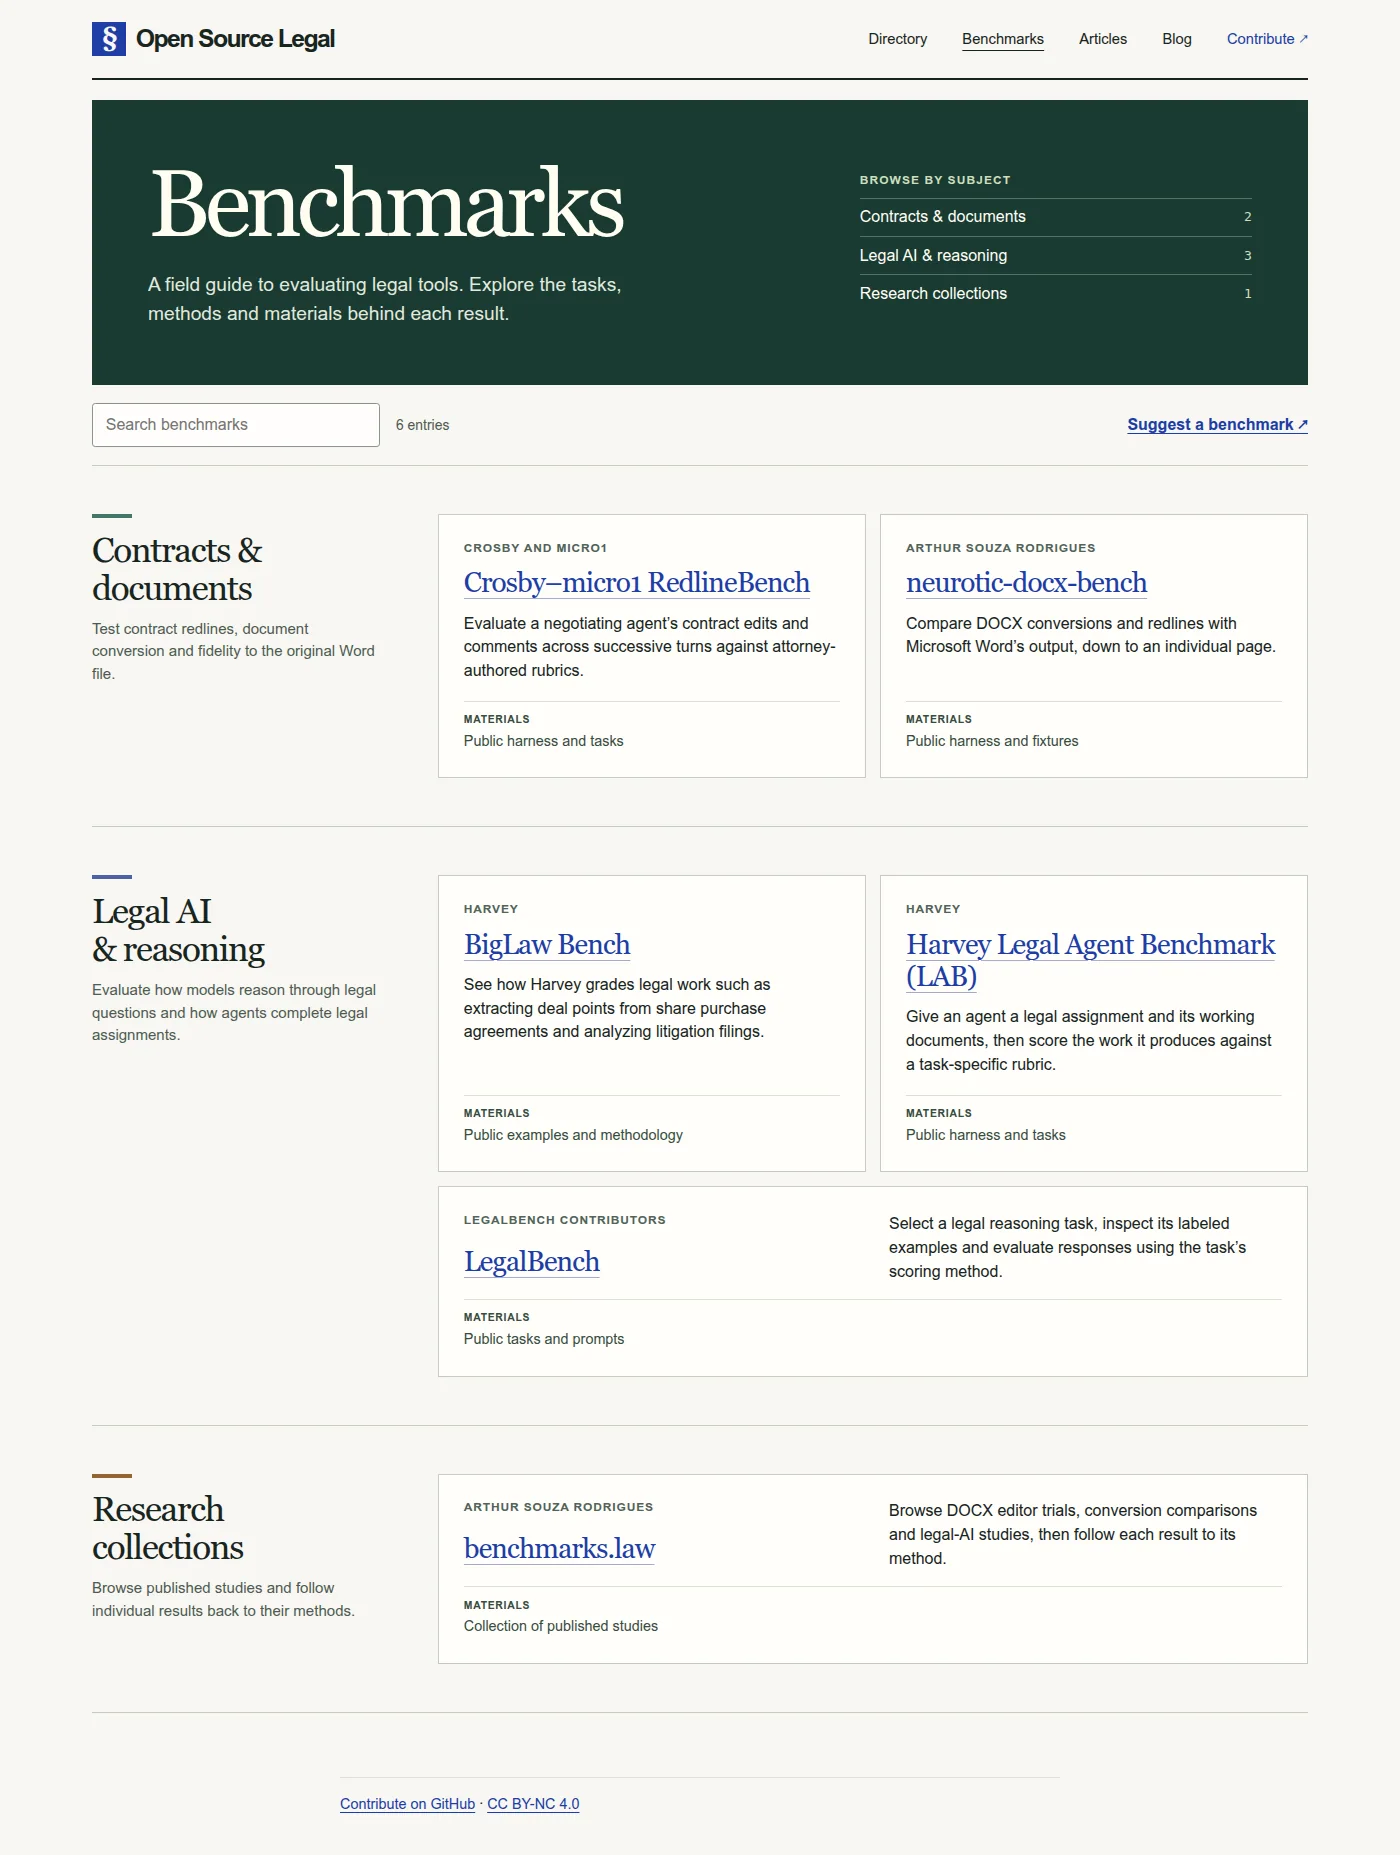
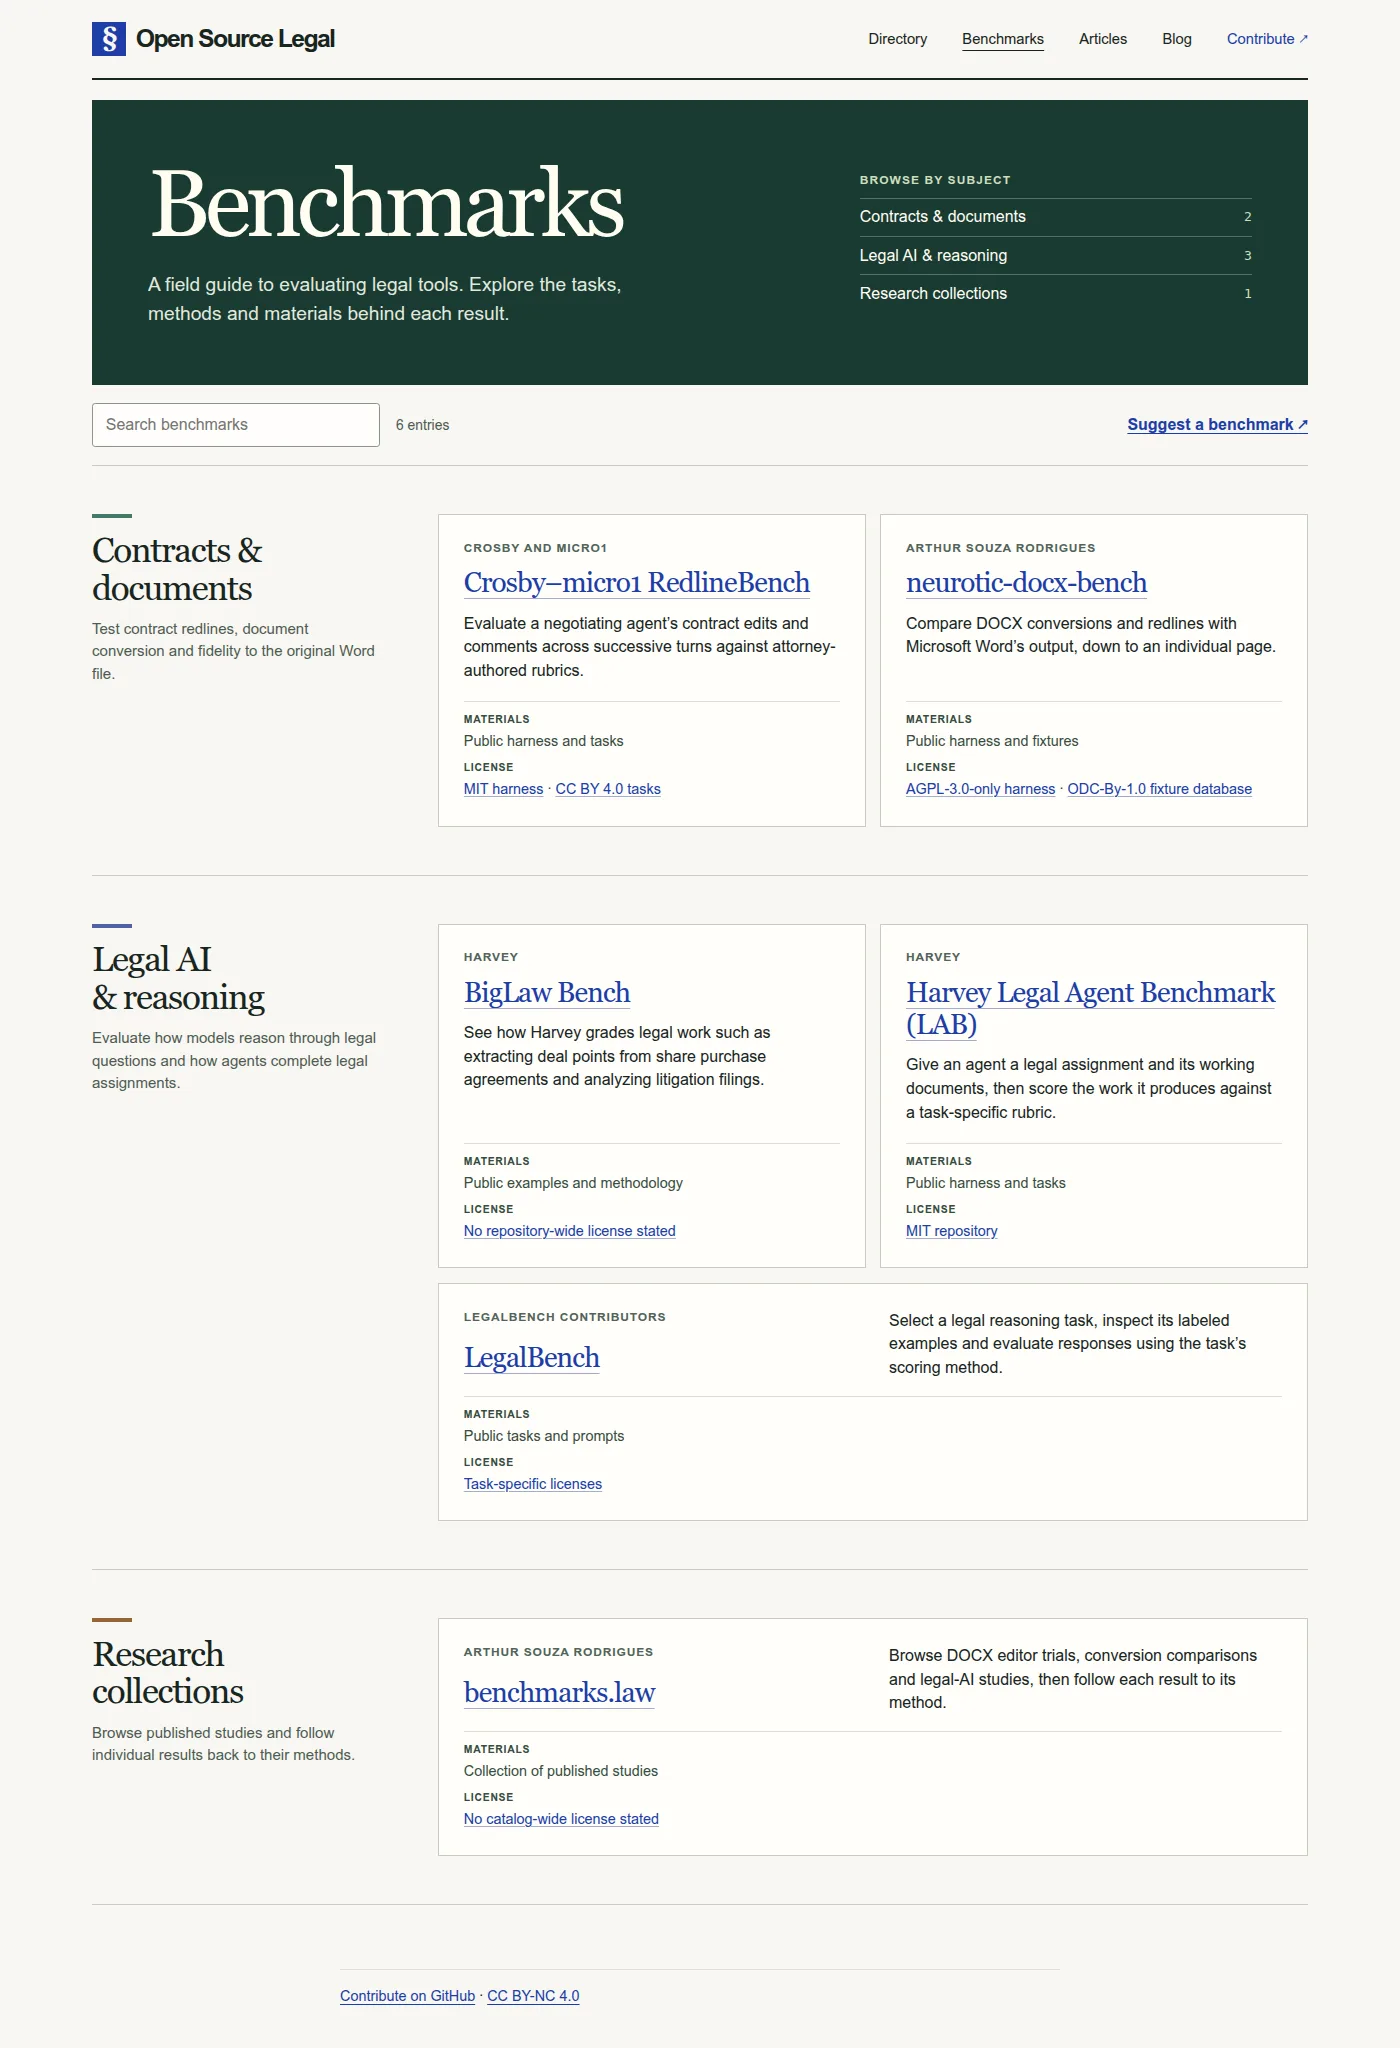
Index benchmark write-ups and document upstream license terms (#23)

diff --git a/templates/articles.css b/templates/articles.css
@@ -32,19 +32,19 @@ main:has(.bench-index), .reader main:has(.bench-index) {
   width: min(76rem, calc(100% - clamp(2.5rem, 9vw, 8rem)));
   padding-block: 1.25rem 4rem;
 }
-.bench-index { --forest: #193a32; --line: #c5ccc3; --action: #203da6; }
+.bench-index { --line: var(--rule, #c5ccc3); --action: var(--blue, #203da6); }
 .bench-index [hidden] { display: none; }
 .bench-mast {
   display: grid; grid-template-columns: minmax(0, 1.6fr) minmax(16rem, 1fr);
   align-items: center; gap: clamp(2rem, 6vw, 6rem);
-  padding: clamp(1.6rem, 4vw, 3.5rem); color: #fffdf0; background: var(--forest);
+  padding: var(--mast-inset, clamp(1.6rem, 4vw, 3.5rem)); color: var(--cream, #fffdf0); background: var(--forest, #193a32);
 }
 .bench-index .bench-mast h1 {
-  margin: 0; font: 400 clamp(3rem, 6.8vw, 6.3rem)/1 Georgia, serif;
+  margin: 0; font: var(--mast-title, 400 clamp(3rem, 6.8vw, 6.3rem)/1 Georgia, serif);
   letter-spacing: -.055em; color: inherit;
 }
-.bench-mast p { max-width: 34rem; margin: 1.25rem 0 0; color: #e1e9dd; font-size: clamp(1rem, 1.4vw, 1.2rem); line-height: 1.5; }
-.bench-publisher, .bench-access span {
+.bench-mast p { max-width: 34rem; margin: 1.25rem 0 0; color: var(--mast-copy, #e1e9dd); font-size: clamp(1rem, 1.4vw, 1.2rem); line-height: 1.5; }
+.bench-publisher, :is(.bench-access, .bench-license) span {
   font: 650 .75rem/1.4 Arial, sans-serif; letter-spacing: .07em; text-transform: uppercase;
 }
 .bench-index .bench-contents h2 { margin: 0 0 .55rem; color: #cbdebd; font: 650 .75rem/1.4 Arial, sans-serif; letter-spacing: .09em; text-transform: uppercase; }
@@ -76,9 +76,9 @@ main:has(.bench-index), .reader main:has(.bench-index) {
 .bench-index .bench-card a:hover { text-decoration-color: currentColor; }
 .bench-summary { flex: 1; margin: .8rem 0 1.15rem; line-height: 1.48; }
 .bench-access { border-top: 1px solid #dbe0d6; padding-top: .7rem; margin: 0; color: #374c40; font-size: .9rem; }
-.bench-access span { display: block; font-size: .65rem; margin-bottom: .2rem; }
+:is(.bench-access, .bench-license) span { display: block; font-size: .65rem; margin-bottom: .2rem; }
 .bench-empty { padding-block: 2.5rem; }
-.bench-empty button { cursor: pointer; background: var(--forest); color: white; border: 0; padding: .6rem 1rem; }
+.bench-empty button { cursor: pointer; background: var(--forest, #193a32); color: white; border: 0; padding: .6rem 1rem; }
 @media (max-width: 55rem) {
   .bench-group { grid-template-columns: 1fr; gap: 1.15rem; }
   .bench-mast { gap: 1.8rem; grid-template-columns: minmax(0, 1.4fr) minmax(13rem, 1fr); }
@@ -101,3 +101,7 @@ main:has(.bench-index), .reader main:has(.bench-index) {
   .bench-card:where(:last-child:nth-child(odd)) .bench-summary { grid-column: 2; grid-row: 1 / 3; margin: 0; }
   .bench-card:where(:last-child:nth-child(odd)) .bench-access { grid-column: 1 / -1; margin-top: 1rem; }
 }
+
+.bench-license { margin: .55rem 0 0; color: #374c40; font-size: .9rem; }
+.bench-license a { text-underline-offset: .15em; }
+.bench-card .bench-license { grid-column: 1 / -1; }

diff --git a/CONTRIBUTING.md b/CONTRIBUTING.md
@@ -8,9 +8,20 @@ Use the blog for project updates, field notes and commentary. Create a file such
 
 ## Add a benchmark
 
-Add one Markdown file to `content/benchmarks/`. Use the article front matter shown below and add two fields: `publisher` (who maintains the benchmark) and `access` (what a reader can obtain, such as “Public harness and tasks” or “Published studies”). Use `date` for the day you checked the sources and `author` for the person or group writing the entry.
+Add one Markdown file to `content/benchmarks/`. Use the article front matter shown below and add `publisher` (who maintains the benchmark) and `access` (what a reader can obtain, such as “Public harness and tasks” or “Published studies”). Use `date` for the day you checked the sources and `author` for the person or group writing the entry.
 
 Set `subject` to `contracts-documents`, `legal-reasoning` or `research-collections` to place your entry in that section. Entries without a subject appear under “Other benchmarks”.
+
+Supply a project `homepage`, an optional `github_url`, and a `licenses` list. Each license needs an identifier, a short label naming the material it covers, and a link to the publisher’s terms. For example:
+
+```yaml
+licenses:
+  - id: MIT
+    label: MIT harness
+    url: https://github.com/crosbylegal/redline-bench/blob/main/LICENSE
+```
+
+List code and dataset terms separately when they differ. Use `NOASSERTION` with a scoped explanation when the publisher gives no overall license. The same Markdown file publishes the write-up and one searchable project directory entry. When adding a write-up for an existing directory project, move its source links into the Markdown and remove its old JSON row.
 
 Describe the task, how outputs are judged and a limitation that matters when interpreting the result. Link directly to the publisher’s method, data, harness or results. For a collection of studies, say so and identify any separately listed benchmark it hosts. Your filename becomes `/benchmarks/<filename-without-.md>`. A reviewed merge adds the entry to benchmark search and the sitemap. The editorial text follows the same CLA and CC BY-NC 4.0 terms as an article. [Propose a benchmark](https://github.com/Open-Source-Legal/opensource.legal-content/new/main/content/benchmarks)
 

diff --git a/content/benchmarks/neurotic-docx-bench.md b/content/benchmarks/neurotic-docx-bench.md
@@ -3,6 +3,15 @@ title: neurotic-docx-bench
 subject: contracts-documents
 publisher: Arthur Souza Rodrigues
 access: Public harness and fixtures
+homepage: https://benchmarks.law/neurotic-docx-bench/
+github_url: https://github.com/jandira-tech/neurotic_docx_bench
+licenses:
+  - id: AGPL-3.0-only
+    label: AGPL-3.0-only harness
+    url: https://github.com/jandira-tech/neurotic_docx_bench#license
+  - id: ODC-By-1.0
+    label: ODC-By-1.0 fixture database
+    url: https://huggingface.co/datasets/arthrod/neurotic_docx_bench-fixtures
 summary: Compare DOCX conversions and redlines with Microsoft Word’s output, down to an individual page.
 date: 2026-11-25
 author: Open Source Legal
@@ -12,4 +21,4 @@ A converter can preserve all the words in a contract and still push its signatur
 
 ## Reproducing a Word comparison
 
-The harness and versioned fixture manifests are public. Reproducing a Word-rendered reference requires Word. Visual similarity measures fidelity to that reference and does not establish whether a lawyer would accept an edit. The maintainer also develops Jubarte, one of the engines evaluated. [Harness and limitations](https://github.com/jandira-tech/neurotic_docx_bench) · [Fixture collection](https://huggingface.co/datasets/arthrod/neurotic_docx_bench-fixtures)
+The harness uses AGPL-3.0-only. The fixture database uses ODC-By-1.0, and individual DOCX files may carry separate rights. The fixture collection links its attribution notices. Reproducing a Word-rendered reference requires Word. Visual similarity measures fidelity to that reference and does not establish whether a lawyer would accept an edit. The maintainer also develops Jubarte, one of the engines evaluated. [Harness and limitations](https://github.com/jandira-tech/neurotic_docx_bench) · [Fixture collection](https://huggingface.co/datasets/arthrod/neurotic_docx_bench-fixtures)

diff --git a/content/benchmarks/crosby-micro1-redlinebench.md b/content/benchmarks/crosby-micro1-redlinebench.md
@@ -3,6 +3,15 @@ title: Crosby–micro1 RedlineBench
 subject: contracts-documents
 publisher: Crosby and micro1
 access: Public harness and tasks
+homepage: https://huggingface.co/datasets/crosbylegal/RedlineBench
+github_url: https://github.com/crosbylegal/redline-bench
+licenses:
+  - id: MIT
+    label: MIT harness
+    url: https://github.com/crosbylegal/redline-bench/blob/main/LICENSE
+  - id: CC-BY-4.0
+    label: CC BY 4.0 tasks
+    url: https://huggingface.co/datasets/crosbylegal/RedlineBench
 summary: Evaluate a negotiating agent’s contract edits and comments across successive turns against attorney-authored rubrics.
 date: 2026-11-25
 author: Open Source Legal

diff --git a/content/benchmarks/legalbench.md b/content/benchmarks/legalbench.md
@@ -3,6 +3,12 @@ title: LegalBench
 subject: legal-reasoning
 publisher: LegalBench contributors
 access: Public tasks and prompts
+homepage: https://hazyresearch.stanford.edu/legalbench/
+github_url: https://github.com/HazyResearch/legalbench
+licenses:
+  - id: LicenseRef-TaskSpecific
+    label: Task-specific licenses
+    url: https://github.com/HazyResearch/legalbench#licenses
 summary: Select a legal reasoning task, inspect its labeled examples and evaluate responses using the task’s scoring method.
 date: 2026-11-25
 author: Open Source Legal

diff --git a/content/benchmarks/harvey-biglaw-bench.md b/content/benchmarks/harvey-biglaw-bench.md
@@ -3,6 +3,12 @@ title: BigLaw Bench
 subject: legal-reasoning
 publisher: Harvey
 access: Public examples and methodology
+homepage: https://www.harvey.ai/blog/introducing-biglaw-bench
+github_url: https://github.com/harveyai/biglaw-bench
+licenses:
+  - id: NOASSERTION
+    label: No repository-wide license stated
+    url: https://github.com/harveyai/biglaw-bench
 summary: See how Harvey grades legal work such as extracting deal points from share purchase agreements and analyzing litigation filings.
 date: 2026-11-25
 author: Open Source Legal

diff --git a/content/benchmarks/harvey-legal-agent-benchmark.md b/content/benchmarks/harvey-legal-agent-benchmark.md
@@ -3,6 +3,12 @@ title: Harvey Legal Agent Benchmark (LAB)
 subject: legal-reasoning
 publisher: Harvey
 access: Public harness and tasks
+homepage: https://github.com/harveyai/harvey-labs
+github_url: https://github.com/harveyai/harvey-labs
+licenses:
+  - id: MIT
+    label: MIT repository
+    url: https://github.com/harveyai/harvey-labs/blob/main/LICENSE
 summary: Give an agent a legal assignment and its working documents, then score the work it produces against a task-specific rubric.
 date: 2026-11-25
 author: Open Source Legal

diff --git a/content/benchmarks/benchmarks-law.md b/content/benchmarks/benchmarks-law.md
@@ -3,6 +3,11 @@ title: benchmarks.law
 subject: research-collections
 publisher: Arthur Souza Rodrigues
 access: Collection of published studies
+homepage: https://benchmarks.law/
+licenses:
+  - id: NOASSERTION
+    label: No catalog-wide license stated
+    url: https://benchmarks.law/
 summary: Browse DOCX editor trials, conversion comparisons and legal-AI studies, then follow each result to its method.
 date: 2026-11-25
 author: Open Source Legal
